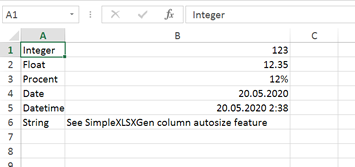
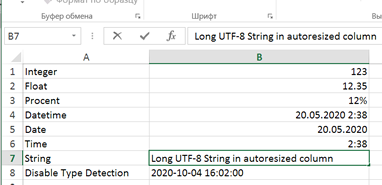
update images

diff --git a/README.md b/README.md
@@ -1,4 +1,4 @@
-# SimpleXLSXGen class 0.9.20 (Official)
+# SimpleXLSXGen class 0.9.21 (Official)
 [<img src="https://img.shields.io/endpoint.svg?url=https%3A%2F%2Fshieldsio-patreon.herokuapp.com%2Fshuchkin" />](https://www.patreon.com/shuchkin) [<img src="https://img.shields.io/github/license/shuchkin/simplexlsxgen" />](https://github.com/shuchkin/simplexlsxgen/blob/master/license.md) [<img src="https://img.shields.io/github/stars/shuchkin/simplexlsxgen" />](https://github.com/shuchkin/simplexlsxgen/stargazers) [<img src="https://img.shields.io/github/forks/shuchkin/simplexlsxgen" />](https://github.com/shuchkin/simplexlsxgen/network) [<img src="https://img.shields.io/github/issues/shuchkin/simplexlsxgen" />](https://github.com/shuchkin/simplexlsxgen/issues)
 
 Export data to Excel XLSX file. PHP XLSX generator. No external tools and libraries.<br/>
@@ -43,7 +43,7 @@ $data = [
     ['Datetime', '2020-05-20 02:38:00'],
     ['Date','2020-05-20'],
     ['Time','02:38:00'],
-    ['String', 'See SimpleXLSXGen column autosize feature'],
+    ['String', 'Long UTF-8 String in autoresized column'],
     ['Disable Type Detection', "\0".'2020-10-04 16:02:00']
 ];
 SimpleXLSXGen::fromArray( $data )->saveAs('datatypes.xlsx');
@@ -63,7 +63,8 @@ SimpleXLSXGen::fromArray( $data )->saveAs('debug.xlsx');
 
 
 ## History
-V0.9.20 (2020-10-04) Disable type detection if string started \0
+v0.9.21 (2020-10-17) Updated images<br/>
+v0.9.20 (2020-10-04) Disable type detection if string started with chr(0)<br/>
 v0.9.19 (2020-08-23) Numbers like SKU right aligned now<br/>
 v0.9.18 (2020-08-22) Fixed fast shared strings index<br/> 
 v0.9.17 (2020-08-21) Fixed real numbers in 123.45 format detection, fast shared strings index (thx fredriksundin)<br/> 
